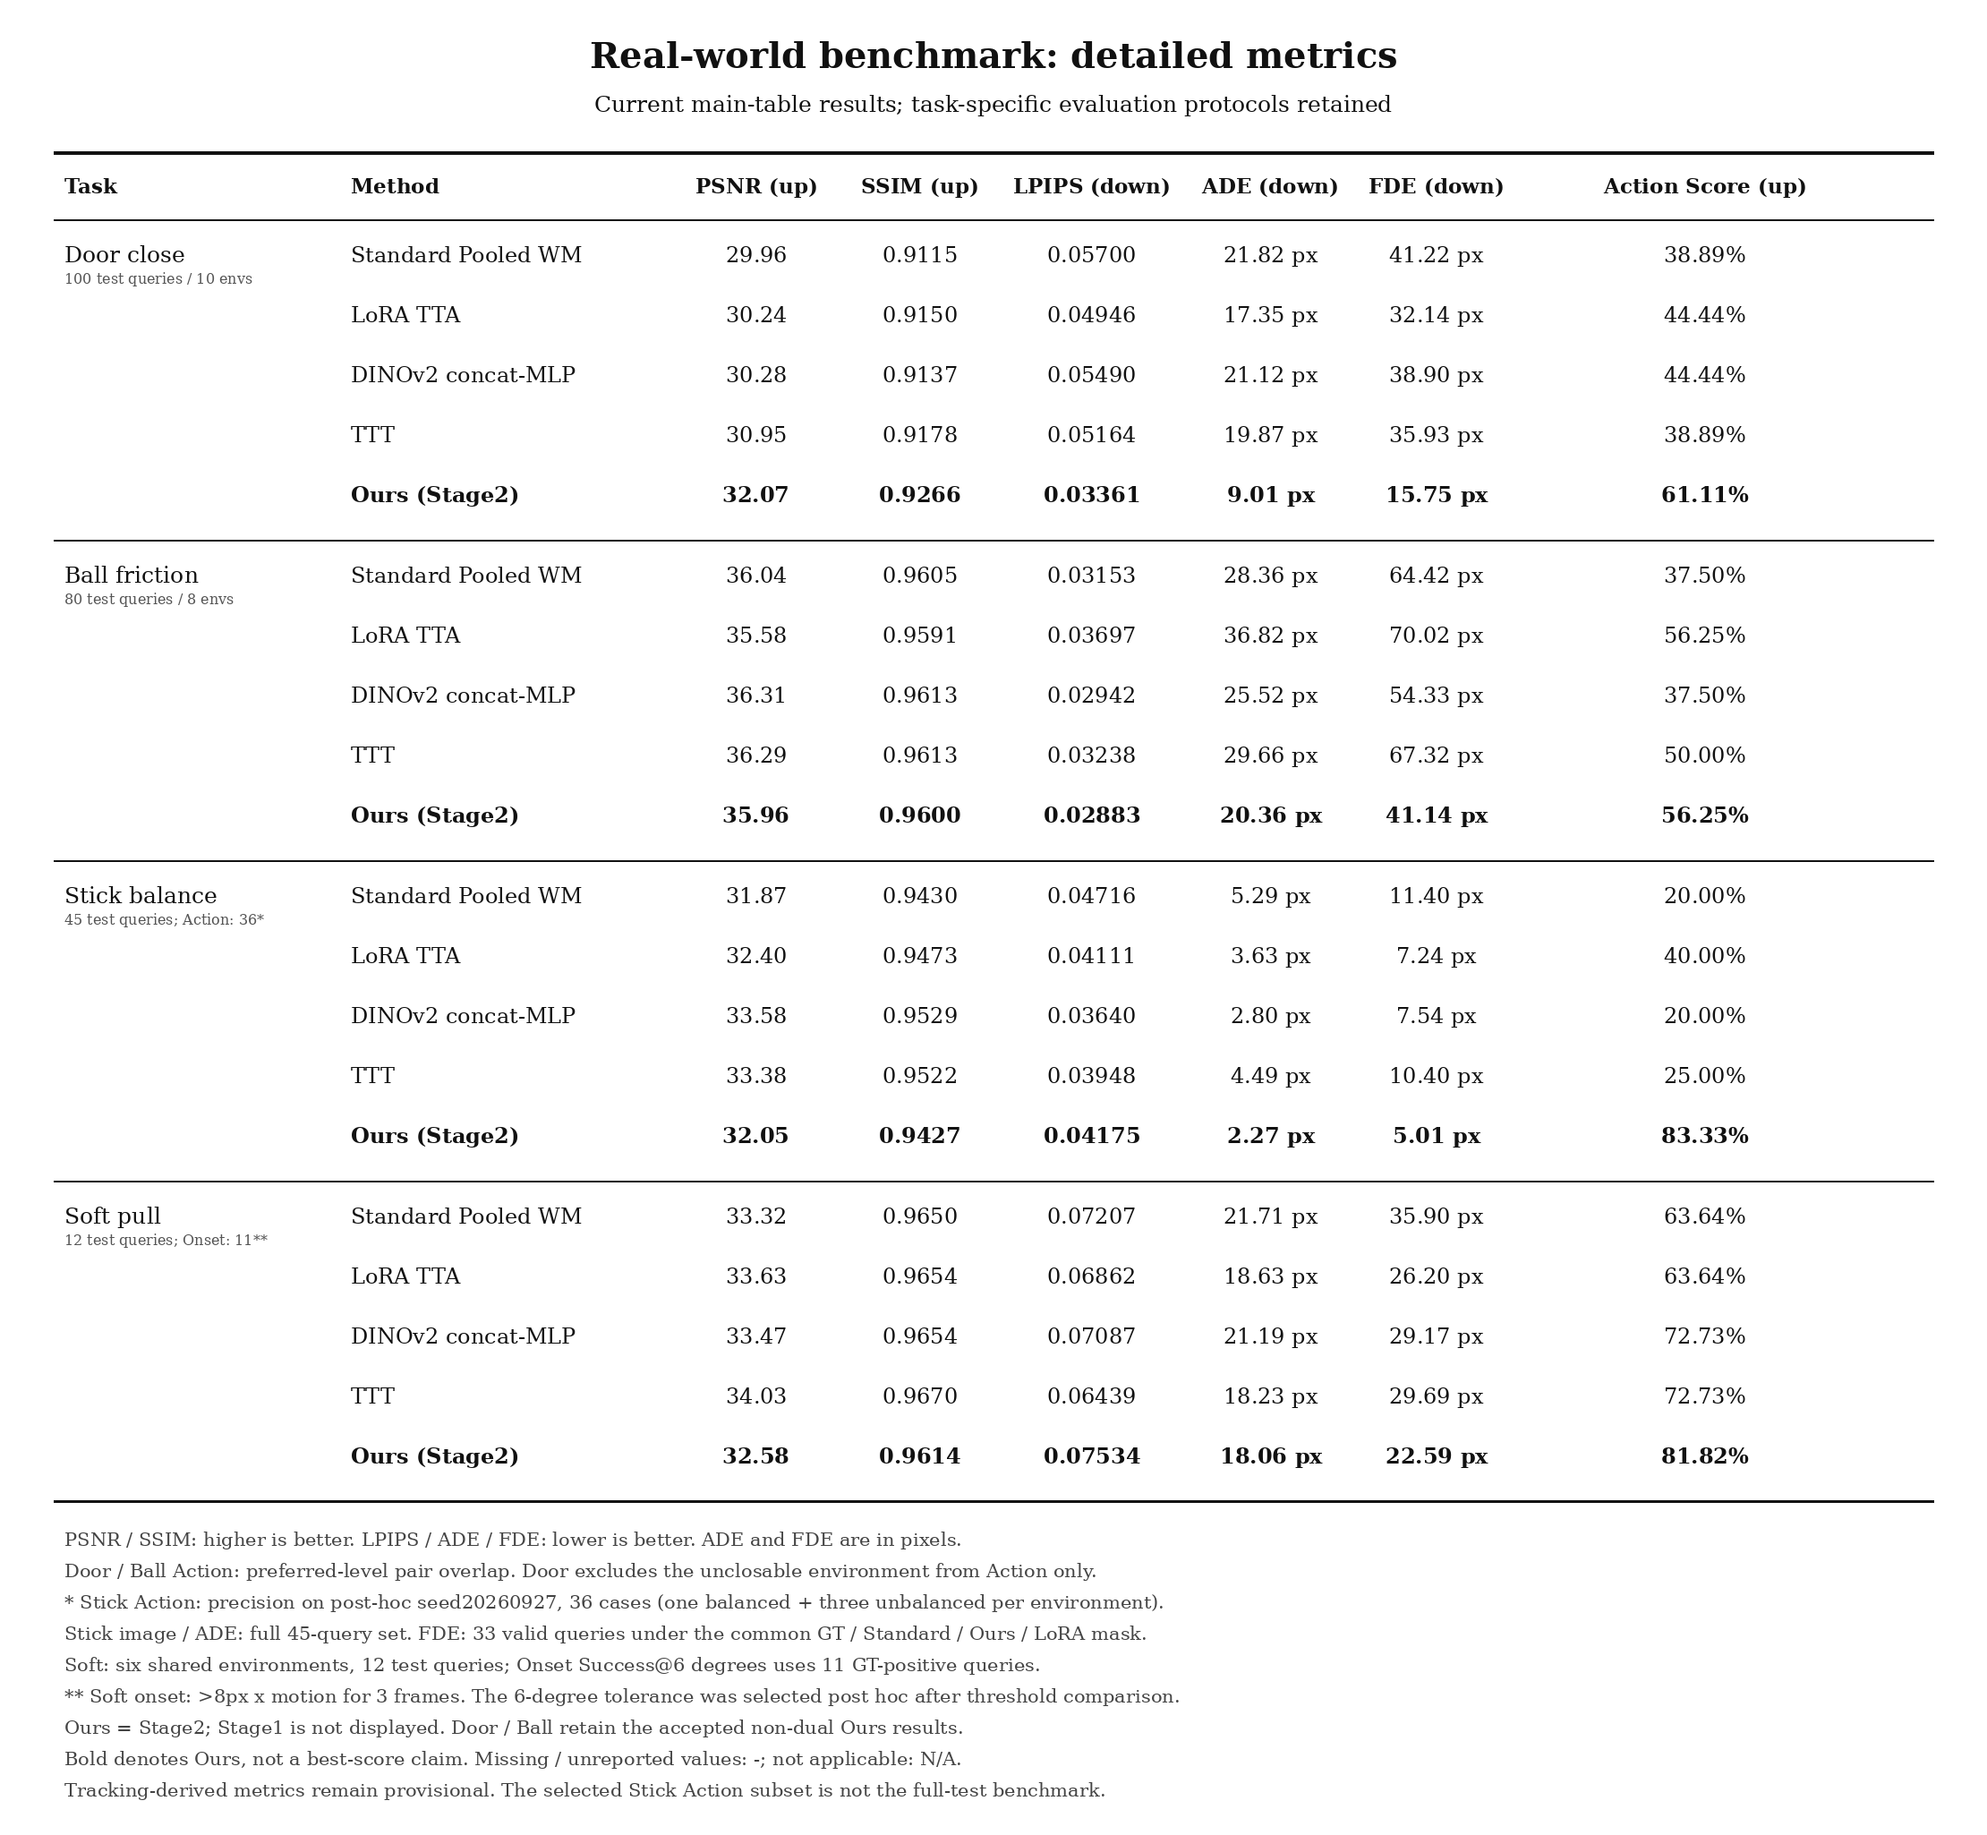
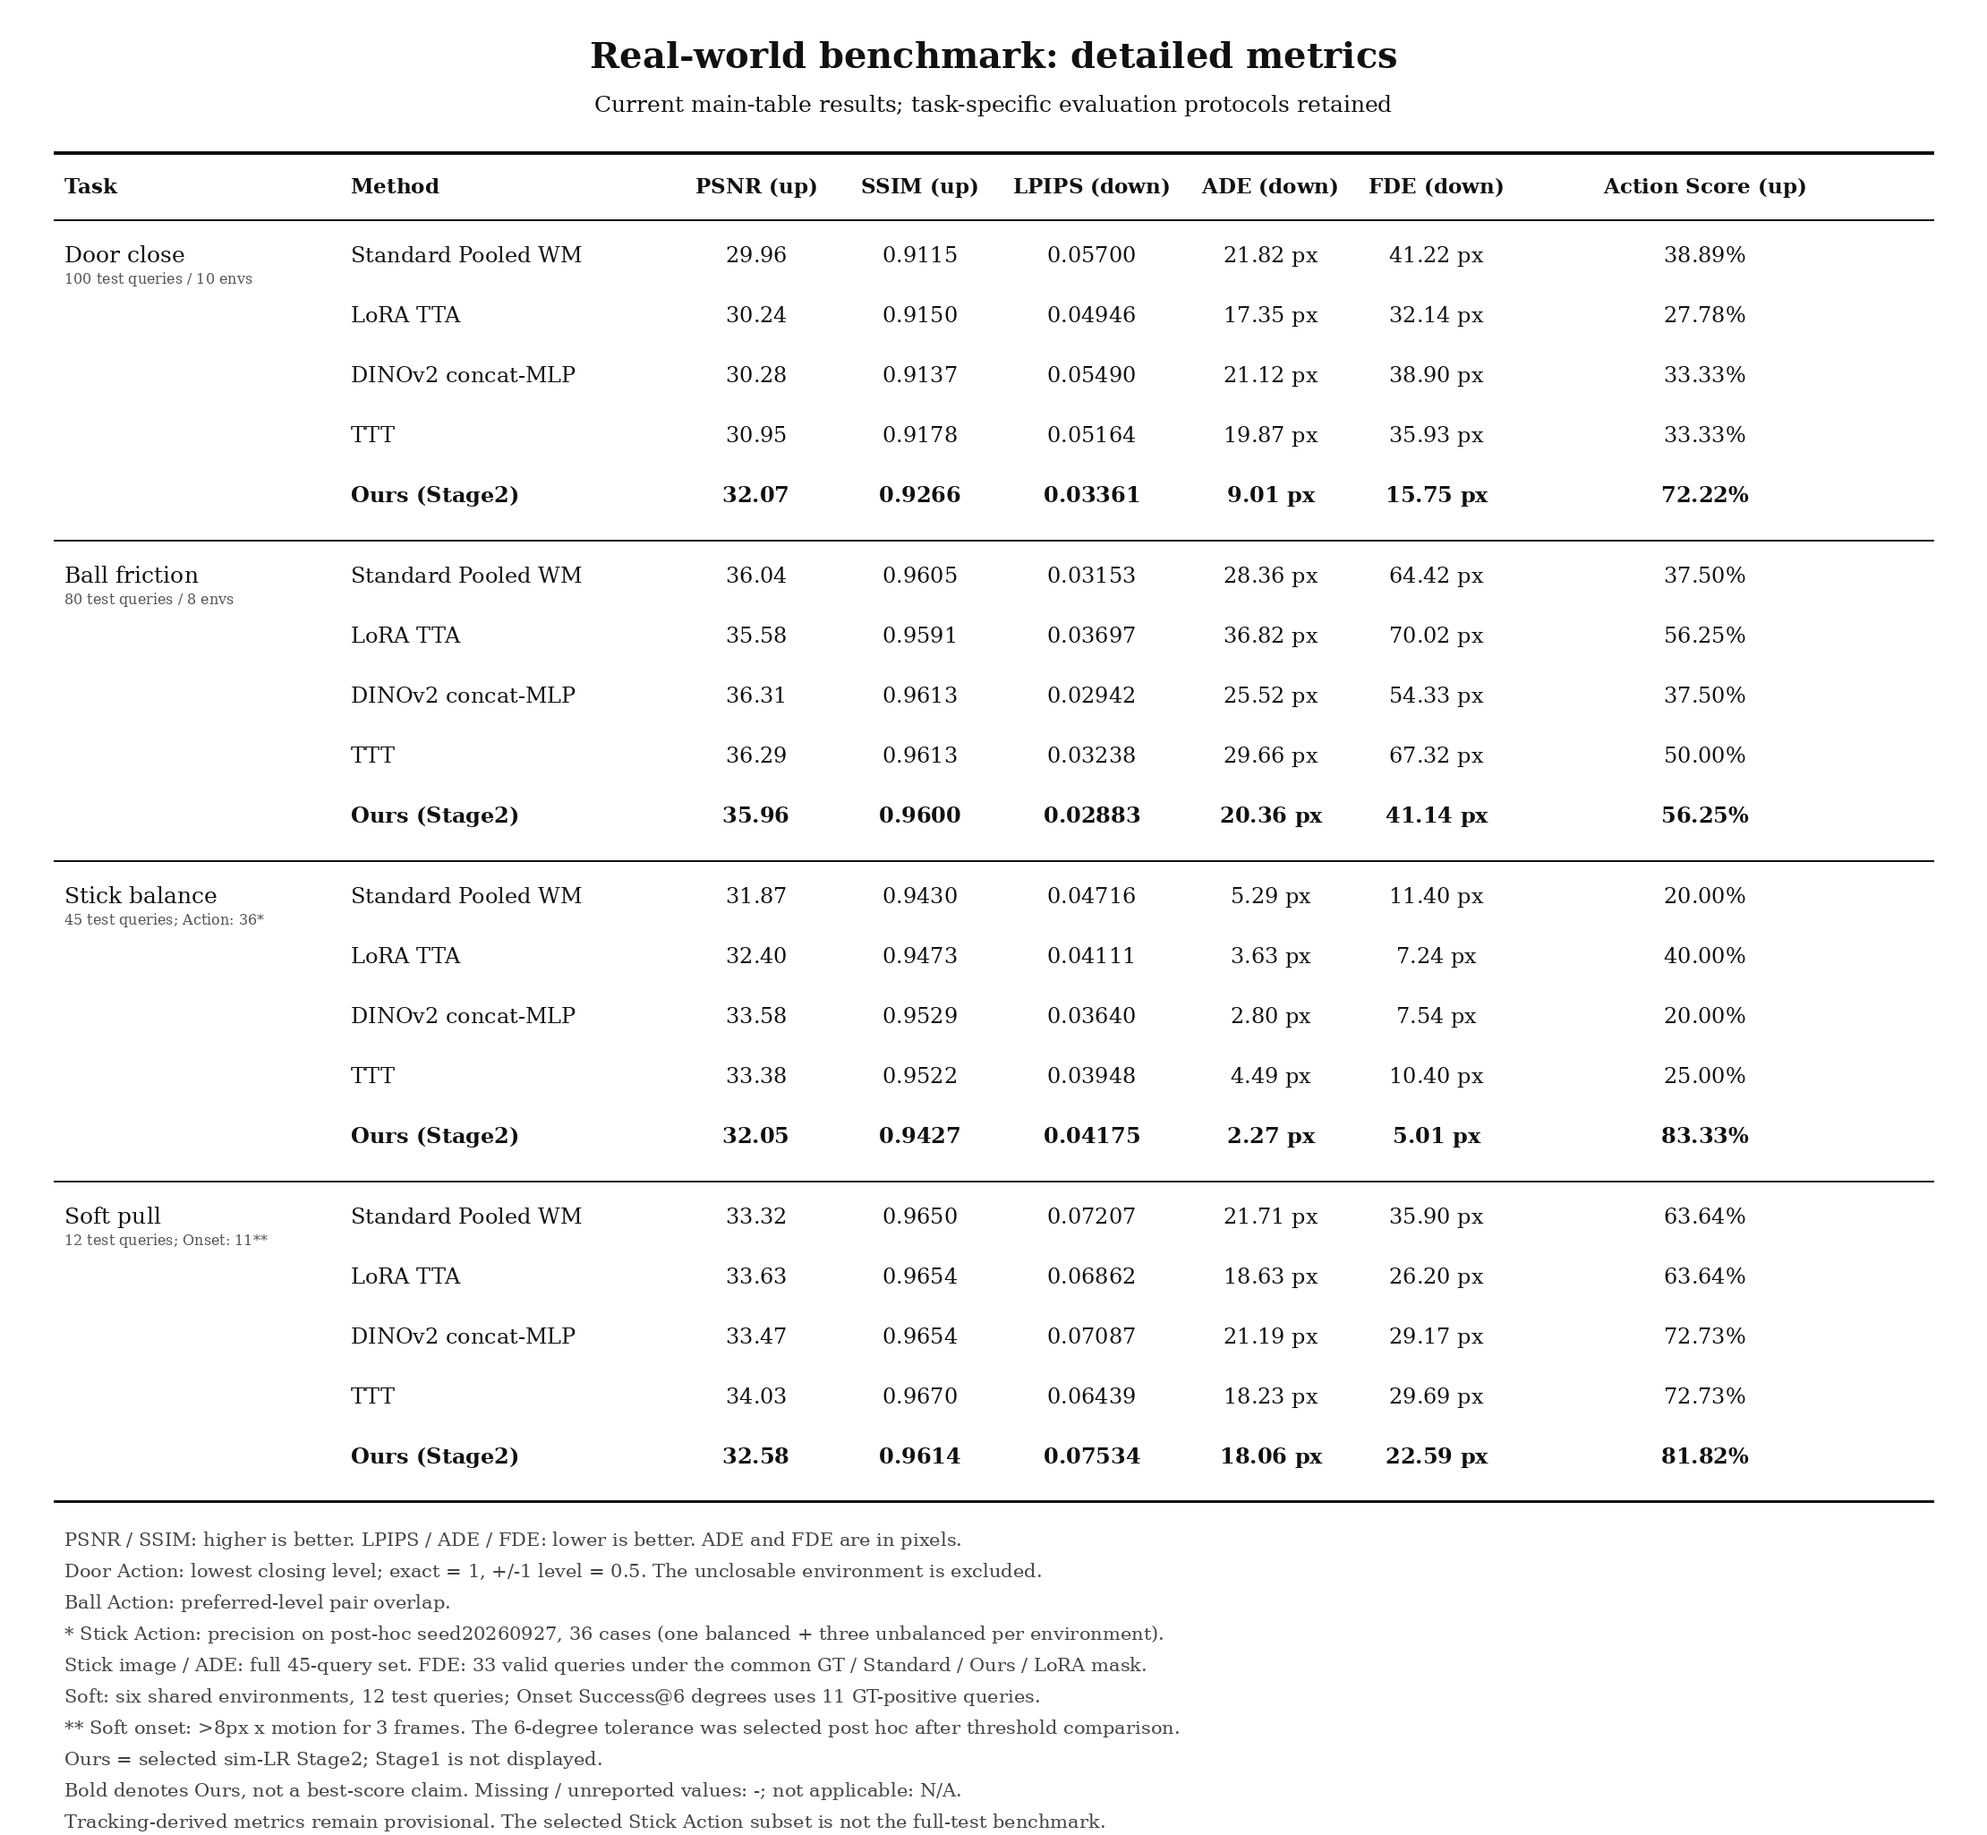
results: revise Door action selection metric

Changed region(s): [[0.0311, 0.8429, 0.5905, 0.999], [0.8392, 0.1561, 0.8703, 0.2185], [0.8392, 0.2498, 0.8703, 0.281]]

diff --git a/results/real97_all_methods_main_table_v1/generate_detailed_chart.py b/results/real97_all_methods_main_table_v1/generate_detailed_chart.py
@@ -1,0 +1,120 @@
+#!/usr/bin/env python3
+"""Render a simulation-style detailed real-task table from the existing main CSV."""
+import csv
+import html
+import io
+import json
+from pathlib import Path
+
+from PIL import Image, ImageDraw, ImageFont
+
+OUT = Path(__file__).resolve().parent
+WIDTH, HEIGHT = 2220, 2050
+
+
+class Chart:
+    def __init__(self):
+        self.image = Image.new('RGB', (WIDTH, HEIGHT), 'white')
+        self.draw = ImageDraw.Draw(self.image)
+        self.fonts = {}
+        self.svg = [f'<svg xmlns="http://www.w3.org/2000/svg" width="{WIDTH}" height="{HEIGHT}" viewBox="0 0 {WIDTH} {HEIGHT}">',
+                    '<rect width="100%" height="100%" fill="white"/>',
+                    '<desc>Detailed real-world metrics from the current published main CSV. ADE and FDE are separate columns. Ours means Stage2, not Stage1. Stick action uses a post-hoc selected 36-query subset; other Stick metrics use full-test queries with a common tracking mask. Soft uses six shared environments; its onset Success@6 degrees uses eleven GT-onset-positive queries and a post-hoc-selected tolerance.</desc>',
+                    '<g fill="#111" font-family="DejaVu Serif,serif">']
+
+    def text(self, x, y, value, size=24, bold=False, align='left', color='#111'):
+        key = (size, bold)
+        if key not in self.fonts:
+            filename = 'DejaVuSerif-Bold.ttf' if bold else 'DejaVuSerif.ttf'
+            self.fonts[key] = ImageFont.truetype(filename, size)
+        self.draw.text((x, y), value, font=self.fonts[key], fill=color,
+                       anchor={'left': 'lm', 'center': 'mm', 'right': 'rm'}[align])
+        self.svg.append(f'<text x="{x}" y="{y}" text-anchor="{dict(left="start", center="middle", right="end")[align]}" dominant-baseline="middle" font-size="{size}" font-weight="{700 if bold else 400}" fill="{color}">{html.escape(value)}</text>')
+
+    def line(self, y, width=2):
+        self.draw.line((60, y, WIDTH - 60, y), fill='#111', width=width)
+        self.svg.append(f'<line x1="60" x2="{WIDTH - 60}" y1="{y}" y2="{y}" stroke="#111" stroke-width="{width}"/>')
+
+    def save(self, stem):
+        (OUT / (stem + '.svg')).write_text('\n'.join(self.svg + ['</g>', '</svg>']) + '\n')
+        self.image.save(OUT / (stem + '.png'), dpi=(300, 300))
+
+
+def main():
+    # Some historical CSV rows contain literal escaped line endings.
+    source = (OUT / 'real97_all_methods_main_table.csv').read_text().replace('\\r\\n', '\n')
+    rows = [r for r in csv.DictReader(io.StringIO(source)) if r['method'] != 'Ours Stage1 (reference)']
+    methods = ['Standard', 'LoRA TTA', 'DINOv2 concat-MLP', 'TTT', 'Ours']
+    lookup = {r['method']: r for r in rows}
+    labels = {'Standard': 'Standard Pooled WM', 'Ours': 'Ours (Stage2)'}
+    tasks = [
+        ('door', 'Door close', '100 test queries / 10 envs', 'action_pair_overlap_pct'),
+        ('ball', 'Ball friction', '80 test queries / 8 envs', 'action_pair_overlap_pct'),
+        ('stick', 'Stick balance', '45 test queries; Action: 36*', 'action_metric'),
+        ('soft', 'Soft pull', '12 test queries; Onset: 11**', 'action_onset_success6_pct'),
+    ]
+    chart = Chart()
+    chart.text(WIDTH / 2, 62, 'Real-world benchmark: detailed metrics', 40, True, 'center')
+    chart.text(WIDTH / 2, 116, 'Current main-table results; task-specific evaluation protocols retained', 25, align='center')
+    chart.line(170, 4)
+    positions = [72, 392, 845, 1028, 1220, 1420, 1605, 1905]
+    headers = ['Task', 'Method', 'PSNR (up)', 'SSIM (up)', 'LPIPS (down)', 'ADE (down)', 'FDE (down)', 'Action Score (up)']
+    for i, (x, label) in enumerate(zip(positions, headers)):
+        chart.text(x, 208, label, 23, True, 'left' if i < 2 else 'center')
+    chart.line(245, 2)
+    top = 245
+    detailed_rows = []
+    for task, title, cohort, action_suffix in tasks:
+        for index, method in enumerate(methods):
+            source_row = lookup[method]
+            y = top + 39 + 67 * index
+            ours = method == 'Ours'
+            if index == 0:
+                chart.text(positions[0], y, title, 25)
+                chart.text(positions[0], y + 27, cohort, 16, color='#555')
+            chart.text(positions[1], y, labels.get(method, method), 24, ours)
+            values = []
+            exported = dict(task=task, method=method)
+            for suffix, digits, unit in [('psnr', 2, ''), ('ssim', 4, ''), ('lpips', 5, ''),
+                                         ('ade_px', 2, ' px'), ('fde_px', 2, ' px')]:
+                raw = source_row.get(task + '_' + suffix, '')
+                exported[suffix] = raw
+                values.append(f'{float(raw):.{digits}f}' + unit if raw else '-')
+            raw_action = source_row.get(task + '_' + action_suffix, '') if action_suffix else ''
+            values.append(f'{float(raw_action):.2f}%' if raw_action else '-')
+            exported['action_score_pct'] = raw_action
+            exported['action_definition'] = ('sliding_onset_success6deg_posthoc_gtpositive11' if task == 'soft' else
+                                             'predicted_balanced_precision_posthoc36' if task == 'stick' else
+                                             'first_closing_level_exact1_adjacent0p5' if task == 'door' else
+                                             'preferred_level_pair_overlap')
+            for x, value in zip(positions[2:], values):
+                chart.text(x, y, value, 24, ours, 'center', '#111' if value not in ('-', 'N/A') else '#777')
+            detailed_rows.append(exported)
+        top += 358
+        chart.line(top, 3 if task == 'soft' else 2)
+    footnotes = [
+        'PSNR / SSIM: higher is better. LPIPS / ADE / FDE: lower is better. ADE and FDE are in pixels.',
+        'Door Action: lowest closing level; exact = 1, +/-1 level = 0.5. The unclosable environment is excluded.',
+        'Ball Action: preferred-level pair overlap.',
+        '* Stick Action: precision on post-hoc seed20260927, 36 cases (one balanced + three unbalanced per environment).',
+        'Stick image / ADE: full 45-query set. FDE: 33 valid queries under the common GT / Standard / Ours / LoRA mask.',
+        'Soft: six shared environments, 12 test queries; Onset Success@6 degrees uses 11 GT-positive queries.',
+        '** Soft onset: >8px x motion for 3 frames. The 6-degree tolerance was selected post hoc after threshold comparison.',
+        'Ours = selected sim-LR Stage2; Stage1 is not displayed.',
+        'Bold denotes Ours, not a best-score claim. Missing / unreported values: -; not applicable: N/A.',
+        'Tracking-derived metrics remain provisional. The selected Stick Action subset is not the full-test benchmark.',
+    ]
+    for index, text in enumerate(footnotes):
+        chart.text(72, top + 42 + index * 35, text, 21, color='#444')
+    stem = 'real97_main_results_detailed'
+    chart.save(stem)
+    with (OUT / (stem + '.csv')).open('w', newline='') as handle:
+        writer = csv.DictWriter(handle, fieldnames=list(detailed_rows[0]), lineterminator='\n')
+        writer.writeheader()
+        writer.writerows(detailed_rows)
+    print(json.dumps(dict(svg=str(OUT / (stem + '.svg')), png=str(OUT / (stem + '.png')),
+                          csv=str(OUT / (stem + '.csv')), rows=len(detailed_rows), original_main_table_modified=False)))
+
+
+if __name__ == '__main__':
+    main()

diff --git a/scripts/evaluation/plot_real97_main_results_compact.py b/scripts/evaluation/plot_real97_main_results_compact.py
@@ -70,7 +70,7 @@ def main():
     c.line(left, bottom, right, bottom, renderer.INK, 2)
     c.text(left, bottom+32, '* Stick action: post-hoc selected seed 20260927, 1 balanced + 3 unbalanced per environment; provisional.', 18, renderer.MUTED)
     c.text(left, bottom+60, '** Soft onset: 8px motion for 3 frames; Success@6 degrees on 11 GT-positive queries. Tolerance selected post hoc; provisional.', 18, renderer.MUTED)
-    c.text(left, bottom+88, 'ADE/FDE: pixels. Door/Ball action: pair overlap. Stick action: precision. Ours = Stage2. Missing = not available.', 18, renderer.MUTED)
+    c.text(left, bottom+88, 'ADE/FDE: pixels. Door action: first-close level (exact 1, +/-1 level 0.5). Ball action: pair overlap.', 18, renderer.MUTED)
     c.text(left, bottom+116, 'Ours: selected sim-LR inference. Tracking-valid masks differ across methods; coverage and source protocols are recorded in README.', 18, renderer.MUTED)
     svg = out / 'real97_main_results.svg'
     png = out / 'real97_main_results.png'

diff --git a/scripts/evaluation/plot_real97_main_results.py b/scripts/evaluation/plot_real97_main_results.py
@@ -130,7 +130,7 @@ def main():
         if index < 4:
             c.line(left+16, cy+37, 2318, cy+37, '#E7ECE9', 1)
     c.line(left, 749, 2334, 749, INK, 2)
-    c.text(left, 784, 'ADE / FDE in pixels. Action = preferred-level pair overlap (0, 0.5, or 1), not binary success.', 20, MUTED)
+    c.text(left, 784, 'ADE / FDE in pixels. Door Action: first-close level (exact 1, +/-1 level 0.5). Ball Action: pair overlap.', 20, MUTED)
     c.text(left, 815, 'Soft above: all 9 environments. Standard did not train on 4L, 7R or 6M; the matched-coverage comparison is below.', 20, MUTED)
 
     # Frozen shared-six object means from the accepted family-mean comparison.

diff --git a/results/real97_all_methods_main_table_v1/README.md b/results/real97_all_methods_main_table_v1/README.md
@@ -1,3 +1,17 @@
+## Current Door action rule: first closing level (2026-09-19)
+
+Door Action now scans levels 1 through 10 and selects the lowest level predicted to close the door. It scores 1.0 when this equals the GT lowest closing level, 0.5 when it differs by exactly one level, and 0 otherwise. A method that predicts no closing level receives 0. The unclosable `door-12u-Half-11d-Half` environment remains excluded, leaving nine scored environments.
+
+| Method | Exact | Within one level | Weighted Action score |
+|---|---:|---:|---:|
+| Standard | 2/9 | 5/9 | 38.89% |
+| LoRA TTA | 2/9 | 3/9 | 27.78% |
+| DINOv2 concat-MLP | 2/9 | 4/9 | 33.33% |
+| TTT | 2/9 | 4/9 | 33.33% |
+| Ours, sim-LR | 5/9 | 8/9 | 72.22% |
+
+The CSV column name `door_action_pair_overlap_pct` is retained only as a compatibility alias; its current values use this first-closing-level rule, not pair overlap. Full per-environment decisions and source summaries are recorded in [the Door action snapshot](metrics/door_first_close_level_tolerance1_20260919.json).
+
 ## Current release: Stick DINO / TTT completed (2026-09-19)
 
 The CSV and compact SVG/PNG main charts now include Stick DINO and TTT. Only their previously empty Stick cells were filled. All current sim-LR Ours scores, other baseline scores, and Soft Onset@6deg scores are preserved.
@@ -45,7 +59,7 @@ Door/Ball: dual6500 cluster centers. Stick3900: full-table mean. Soft5500: L/R/8
 
 | Task | PSNR | SSIM | LPIPS | ADE px | FDE px | Action % |
 |---|---:|---:|---:|---:|---:|---:|
-| door | 32.07 | 0.92660 | 0.03361 | 9.01 | 15.75 | 61.11 |
+| door | 32.07 | 0.92660 | 0.03361 | 9.01 | 15.75 | 72.22 |
 | ball | 35.96 | 0.96001 | 0.02883 | 20.36 | 41.14 | 56.25 |
 | stick | 32.05 | 0.94271 | 0.04175 | 2.27 | 5.01 | 83.33 |
 | soft | 32.58 | 0.96143 | 0.07529 | 18.24 | 22.59 | 81.82 |
